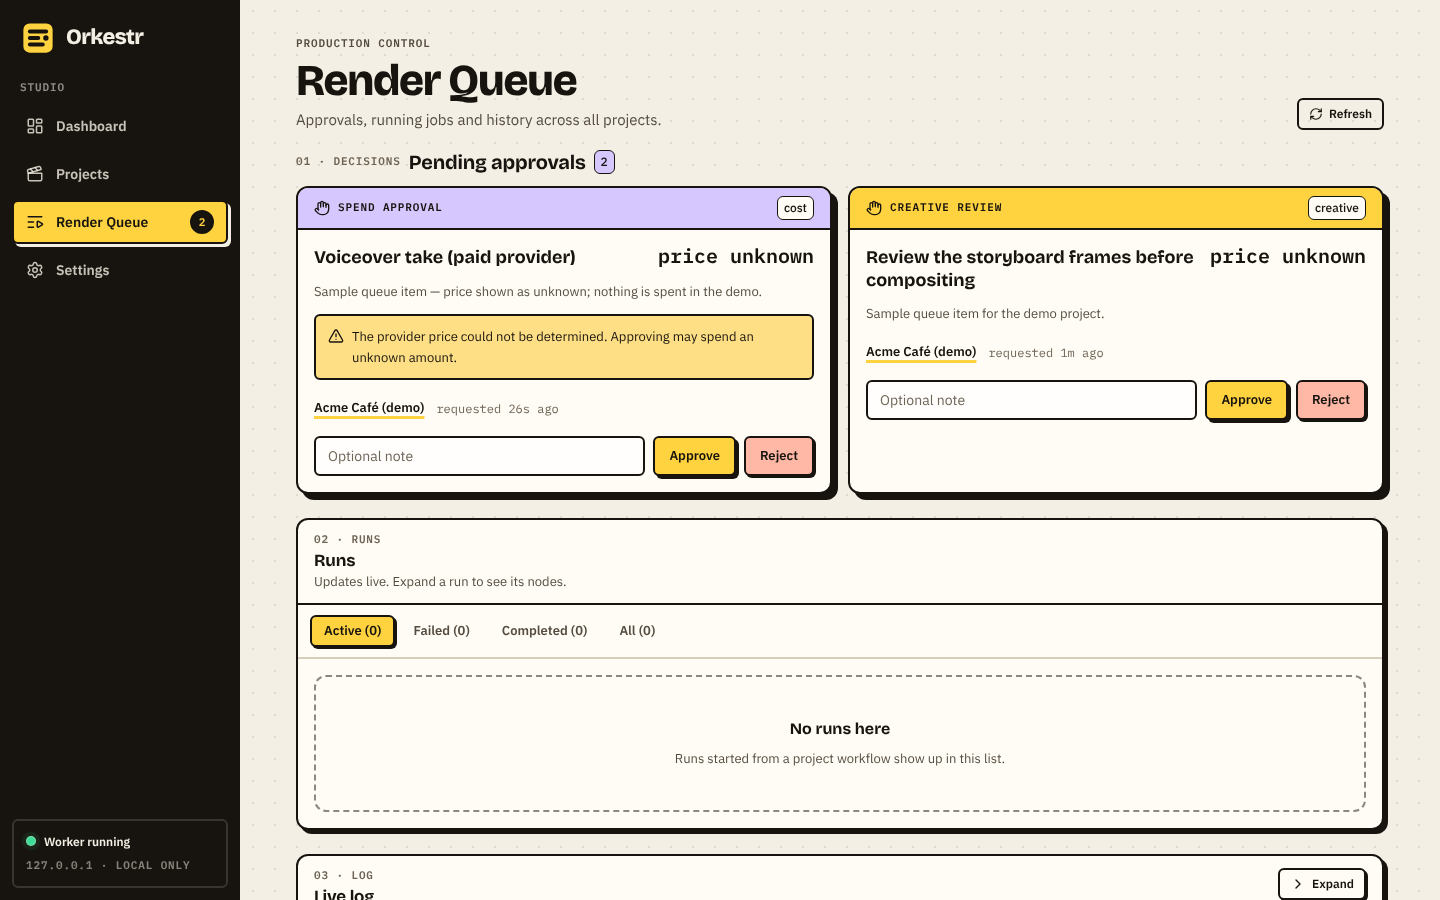
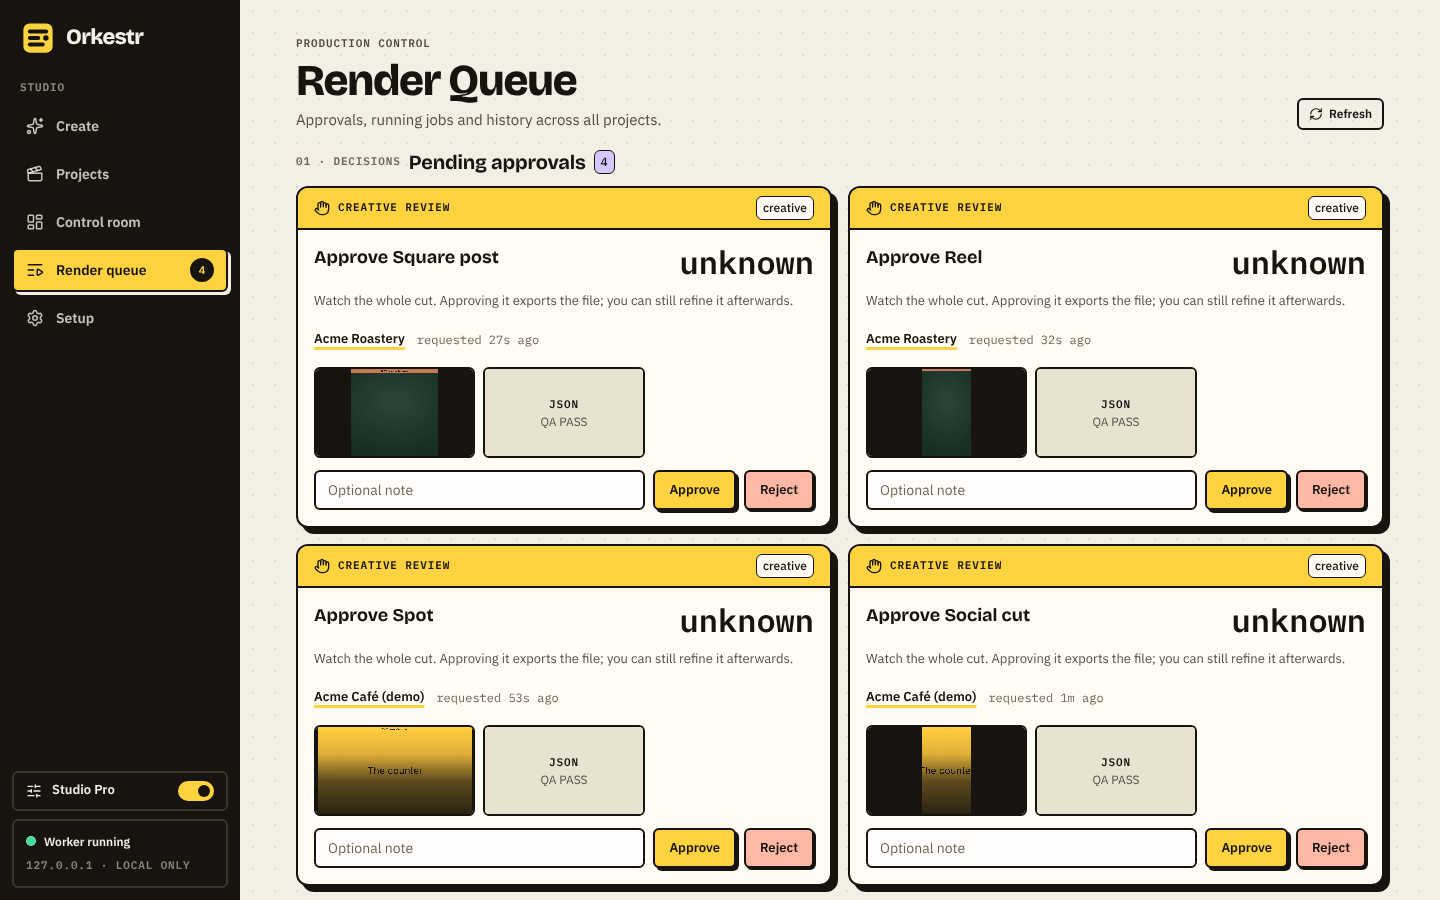
Refresh README screenshots and GIFs for the creation-first studio
Recaptured every README image from a production build with the demo data:
the Simple-mode journey (create, direction, producing, inline approval), all
Studio Pro screens, the four mobile shots, and the tour, flow-editor and mobile
GIFs. Updated the tour alt text and the screenshot notes to match.

Claude-Session: https://claude.ai/code/session_01195h7ayBi5w9YUVpT4oNC2

diff --git a/README.md b/README.md
@@ -20,7 +20,7 @@
 ---
 
 <p align="center">
-  <img src="docs/media/tour.gif" alt="A walkthrough: dashboard, projects, the AI Director call sheet, storyboard, assets, preview and the render queue" width="100%">
+  <img src="docs/media/tour.gif" alt="A walkthrough: describe a video on the Create screen, approve the cut inline, then switch on Studio Pro for the control room, AI Director call sheet, storyboard, assets, preview, render queue and setup" width="100%">
 </p>
 
 ## Why Orkestr
@@ -88,11 +88,12 @@ For an optimized local build: `npm run build && npm run start`.
 `npm run seed:demo` creates **Acme Café (demo)** — a fictional brand with dummy data only: invented "demo claims",
 logos and stills generated with FFmpeg, a test-pattern clip and a test tone. It also accepts a hand-written plan
 fixture (clearly labelled, *not* AI-generated) through the normal code path, so you get a real storyboard and a
-validated 14-node workflow to explore without spending anything. The screenshots below were taken with it.
+validated 14-node workflow to explore without spending anything. The screenshots below were taken with it; the
+"How it feels" shots use a fictional *Acme Roastery* reel built from the demo photos with the free recipe planner.
 
 ## Tour (Studio Pro)
 
-| Dashboard — the control room | AI Director — the plan as a call sheet |
+| Control room — studio status and decisions | AI Director — the plan as a call sheet |
 | --- | --- |
 | [![Dashboard](docs/screenshots/dashboard.png)](docs/screenshots/dashboard.png) | [![AI Director](docs/screenshots/director.png)](docs/screenshots/director.png) |
 | **Storyboard** — scenes, narration, approvals | **Flow editor** — typed DAG with live validation |
